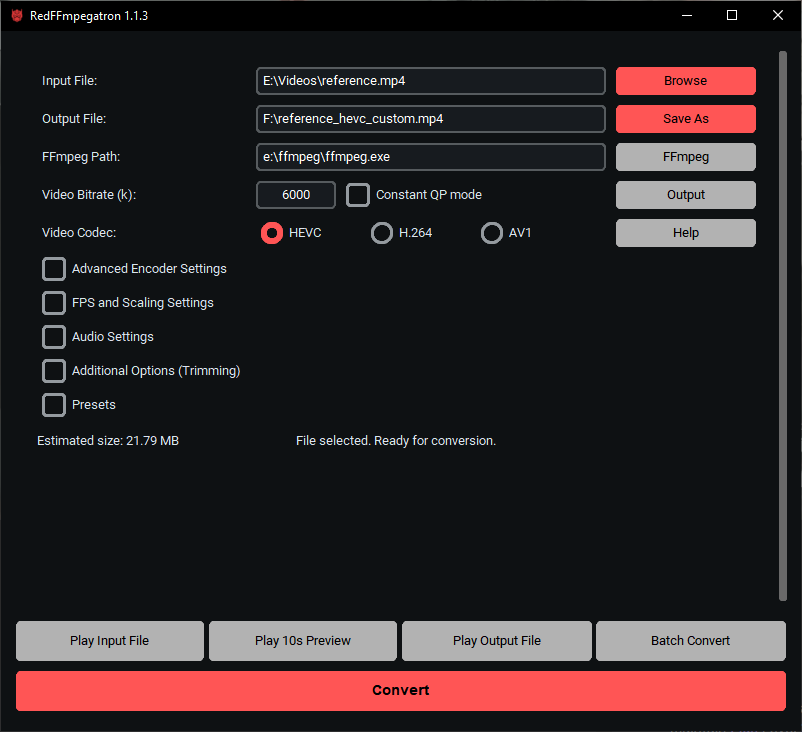
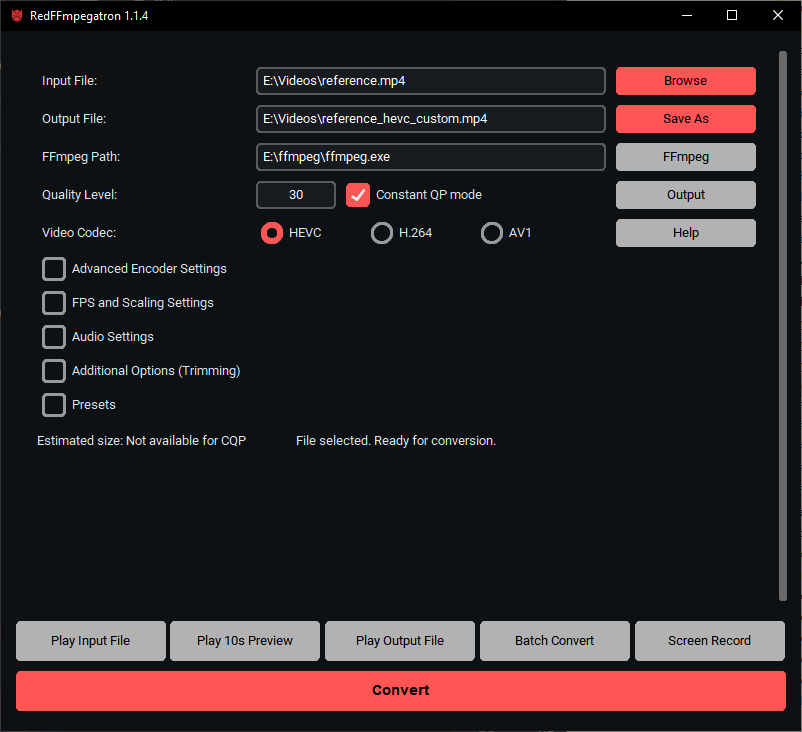
Release 1.1.4

diff --git a/RedFFmpegatron.py b/RedFFmpegatron.py
@@ -4,11 +4,12 @@ import subprocess
 import sys
 import tempfile
 import tkinter as tk
+from datetime import datetime
 from io import BytesIO
 from json import dump, load
 from re import sub
 from shlex import split
-from threading import Thread
+from threading import Thread, Timer
 from tkinter import filedialog, messagebox
 from winsound import MB_ICONASTERISK, MessageBeep
 
@@ -525,7 +526,7 @@ class VideoConverterApp:
         self.batch_files = []
         self.video_metadata_cache = {}
         self.master = master
-        master.title("RedFFmpegatron 1.1.3")
+        master.title("RedFFmpegatron 1.1.4")
         master.geometry("800x700")
         master.minsize(800, 700)
         master.maxsize(800, 900)
@@ -733,6 +734,9 @@ class VideoConverterApp:
         self.last_input_dir = ctk.StringVar(value="")
         self.last_output_dir = ctk.StringVar(value="")
         self.precise_trim = ctk.BooleanVar(value=False)
+        # Screen recording variables
+        self.is_recording = False
+        self.recording_process = None
 
     def _create_widgets(self):
         # Build the entire GUI interface
@@ -2062,8 +2066,19 @@ class VideoConverterApp:
             text_color=TEXT_COLOR_B,
             height=40,
         )
-        self.batch_convert_button.pack(side="left", expand=True, fill="x", padx=(2, 0))
+        self.batch_convert_button.pack(side="left", expand=True, fill="x", padx=(2, 2))
         self.batch_convert_button.configure(command=self._open_batch_converter)
+
+        self.screen_record_button = ctk.CTkButton(
+            self.play_buttons_frame,
+            text="Screen Record",
+            fg_color=ACCENT_GREY,
+            hover_color=HOVER_GREY,
+            text_color=TEXT_COLOR_B,
+            height=40,
+        )
+        self.screen_record_button.pack(side="left", expand=True, fill="x", padx=(2, 0))
+        self.screen_record_button.configure(command=self._screen_record)
 
         # Convert Button
         self.convert_button = ctk.CTkButton(
@@ -2149,6 +2164,194 @@ class VideoConverterApp:
             self.batch_converter_window._update_files_display()
             self.batch_converter_window.window.lift()
             self.batch_converter_window.window.focus_force()
+
+    def _screen_record(self):
+        if self.is_recording:
+            # Stop recording
+            self._stop_recording()
+        else:
+            # Start recording
+            self._start_recording()
+
+    def _start_recording(self):
+        if not hasattr(self, "original_title"):
+            self.original_title = self.master.title()
+
+        self.master.title("Screen is recording now - RedFFmpegatron")
+        if not self.ffmpeg_path:
+            messagebox.showerror("Error", "FFmpeg path is not specified.")
+            return
+
+        # Get output file path
+        output_file = self.output_file.get()
+        if not output_file:
+            # Generate default filename on desktop
+            desktop = os.path.join(os.path.expanduser("~"), "Desktop")
+            now = datetime.now()
+            date_str = now.strftime("%d_%m_%y-%H_%M")
+
+            # Get extension from current output or use mp4
+            current_output = self.output_file.get()
+            if current_output:
+                ext = os.path.splitext(current_output)[1]
+                if not ext:
+                    ext = ".mp4"
+            else:
+                ext = ".mp4"
+
+            output_file = os.path.join(desktop, f"screen_record-{date_str}{ext}")
+
+        # Get FPS - use 60 if source or not specified
+        fps = self.fps_option.get()
+        if fps == "source" or not fps:
+            fps = "60"
+        elif fps == "custom":
+            fps = self.custom_fps.get()
+
+        # Build screen recording command
+        command = [
+            self.ffmpeg_path,
+            "-y",
+            "-f",
+            "lavfi",
+            "-i",
+            f"ddagrab=framerate={fps}",
+        ]
+
+        # Add different video filter based on codec
+        if self.video_codec.get() == "h264":
+            command.extend(["-vf", "hwdownload,format=bgra,setparams=range=limited"])
+        else:
+            command.extend(["-vf", "setparams=range=limited"])
+
+        # Add encoder settings
+        codec_map = {"hevc": "hevc_amf", "h264": "h264_amf", "av1": "av1_amf"}
+        codec = codec_map.get(self.video_codec.get(), "hevc_amf")
+
+        command.extend(["-c:v", codec])
+
+        # Add quality settings
+        if self.constant_qp_mode.get():
+            command.extend(
+                [
+                    "-rc:v",
+                    "cqp",
+                    "-qp_i:v",
+                    self.quality_level.get(),
+                    "-qp_p:v",
+                    self.quality_level.get(),
+                    "-qp_b:v",
+                    self.quality_level.get(),
+                ]
+            )
+        else:
+            command.extend(["-rc:v", self.rc.get(), "-b:v", f"{self.bitrate.get()}k"])
+
+        # Constant FPS + No audio
+        command.extend(["-fps_mode", "cfr", "-an", output_file])
+
+        # PRINT THE COMMAND TO CONSOLE
+        print("Screen recording command:")
+        print(" ".join(command))
+
+        try:
+            # Update UI first
+            self.is_recording = True
+            self.screen_record_button.configure(
+                text="Stop Recording", fg_color=ACCENT_RED, hover_color=HOVER_RED
+            )
+            self.status_text.set("Screen is recording now...")
+            self.ffmpeg_output.set("Screen recording starting...")
+
+            # Minimize window after 1 second
+            self.master.after(1000, self.master.iconify)
+
+            # Start recording process after 1 second delay using Timer
+            def start_recording():
+                startupinfo = None
+                creationflags = 0
+                if os.name == "nt":
+                    startupinfo = subprocess.STARTUPINFO()
+                    startupinfo.dwFlags |= subprocess.STARTF_USESHOWWINDOW
+                    startupinfo.wShowWindow = subprocess.SW_HIDE
+                    creationflags = subprocess.CREATE_NO_WINDOW
+
+                self.recording_process = subprocess.Popen(
+                    command,
+                    stdin=subprocess.PIPE,
+                    stdout=subprocess.PIPE,
+                    stderr=subprocess.STDOUT,
+                    text=True,
+                    bufsize=1,
+                    startupinfo=startupinfo,
+                    creationflags=creationflags,
+                    encoding="utf-8",
+                    errors="replace",
+                )
+
+                self.ffmpeg_output.set("Screen recording started...")
+
+                # Start monitoring thread
+                recording_thread = Thread(target=self._monitor_recording)
+                recording_thread.start()
+
+            # Use Timer to delay the recording start by 2 seconds
+            timer = Timer(2.0, start_recording)
+            timer.start()
+
+        except Exception as e:
+            messagebox.showerror("Error", f"Failed to start screen recording: {str(e)}")
+
+    def _stop_recording(self):
+        if hasattr(self, "original_title"):
+            self.master.title(self.original_title)
+        if not self.recording_process:
+            return
+
+        try:
+            # Send 'q' to gracefully stop FFmpeg
+            self.recording_process.stdin.write("q")
+            self.recording_process.stdin.flush()
+        except (BrokenPipeError, OSError, IOError) as e:
+            # If stdin fails, terminate the process
+            print(f"Failed to send stop signal via stdin: {e}")
+            self.recording_process.terminate()
+
+        # Wait for process to finish
+        try:
+            self.recording_process.wait(timeout=5)
+        except subprocess.TimeoutExpired:
+            self.recording_process.kill()
+
+        # Update UI
+        self.is_recording = False
+        self.recording_process = None
+        self.screen_record_button.configure(
+            text="Screen Record", fg_color=ACCENT_GREY, hover_color=HOVER_GREY
+        )
+        self.status_text.set("Screen recording stopped")
+        self.ffmpeg_output.set("Screen recording completed")
+
+        # Restore window
+        self.master.deiconify()
+
+    def _monitor_recording(self):
+        """Monitor the recording process output"""
+        while self.is_recording and self.recording_process:
+            try:
+                line = self.recording_process.stdout.readline()
+                if not line:
+                    break
+
+                if self.is_recording:  # Check again in case it changed
+                    self.master.after(0, lambda: self.ffmpeg_output.set(line.strip()))
+
+            except Exception:
+                break
+
+        # If we get here and still recording, process ended unexpectedly
+        if self.is_recording:
+            self.master.after(0, self._stop_recording)
 
     def _toggle_conversion(self):
         # Check if batch conversion should be started or cancelled
@@ -2717,7 +2920,7 @@ class VideoConverterApp:
                 "preanalysis": self.preanalysis.get(),
                 "max_pa": self.max_pa.get(),
                 "smart_access_video": self.smart_access_video.get(),
-                "version": "1.1.3",
+                "version": "1.1.4",
             }
 
             with open(settings_file, "w", encoding="utf-8") as file:

diff --git a/README.md b/README.md
@@ -103,8 +103,8 @@ You can compile the Python script into a standalone Windows executable (`.exe`) 
       --include-data-file=rff-about.txt=./rff-about.txt ^
       --include-data-file=rff-license.txt=./rff-license.txt ^
       --product-name="RedFFmpegatron" ^
-      --product-version="1.1.3" ^
-      --file-version="1.1.3" ^
+      --product-version="1.1.4" ^
+      --file-version="1.1.4" ^
       --file-description="RedFFmpegatron" ^
       --company-name="Deepseek Enjoyer" ^
       --copyright="Copyright (C) 2025 hadouken" ^

diff --git a/CHANGELOG.md b/CHANGELOG.md
@@ -1,5 +1,8 @@
 # RedFFmpegatron - Changelog
 
+## [1.1.4] - 2025-10-16
+- Added "Screen Record".
+
 ## [1.1.3] - 2025-10-16
 - Added "Batch Convert";
 - Build with Python: 3.13.8 + Nuitka 2.9rc2.
